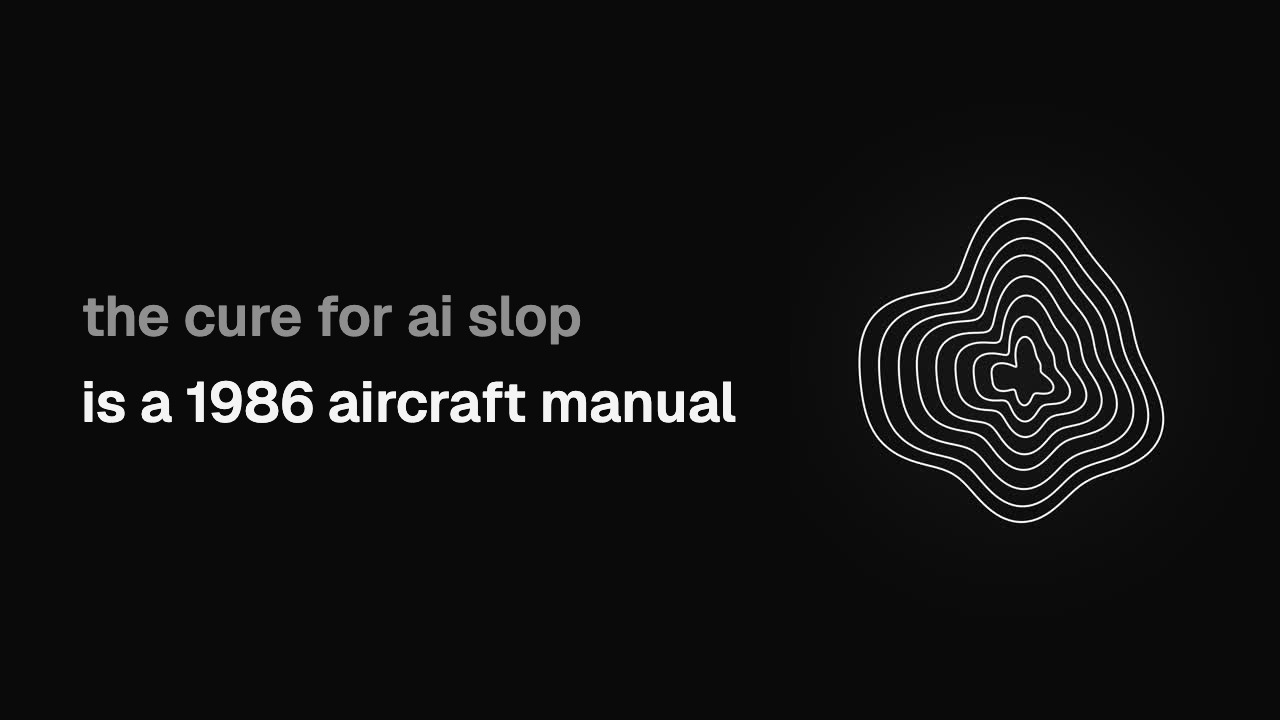
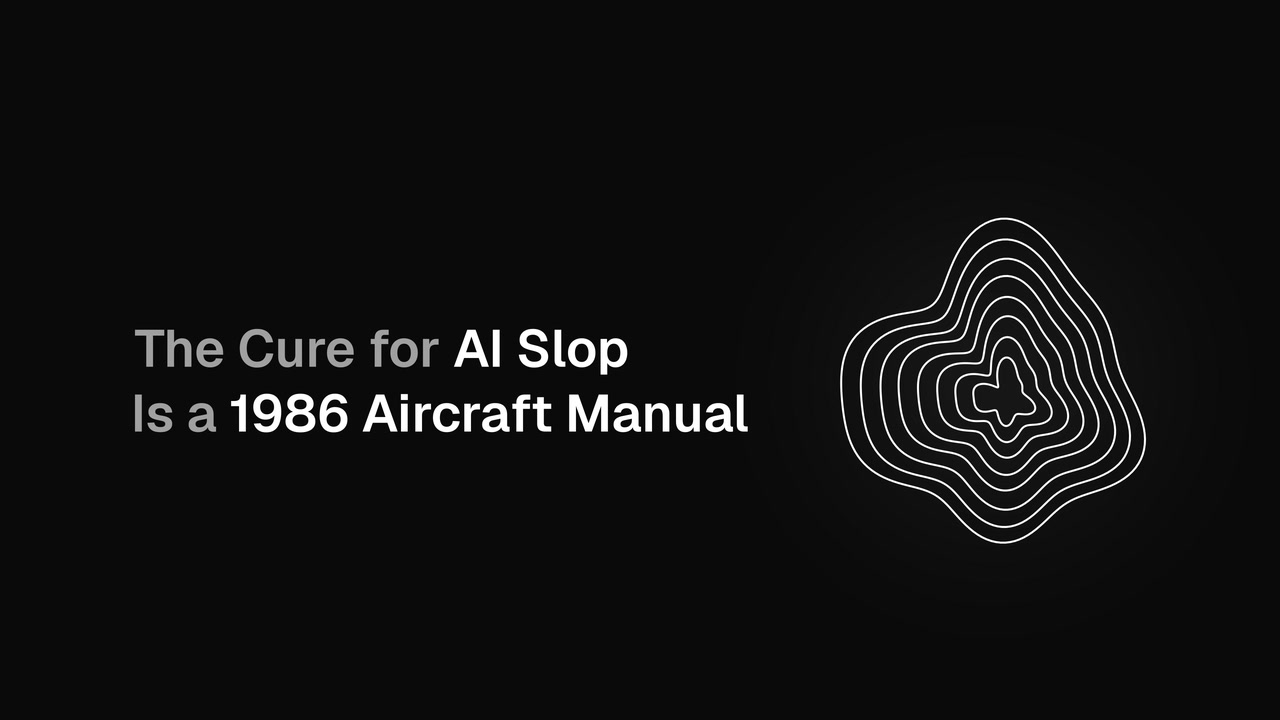
Add the episode "Is closed source dead?"
- Add the episode page with the YouTube video, the chapters and 23 sources.
- Add its thumbnail.
- Use Title Case and equal side margins in the ep01 and ep02 thumbnails.
- Give the newest episode card the same title size and padding as the other cards.

Changed region(s): [[0.0625, 0.3972, 0.5938, 0.6111], [0.6562, 0.275, 0.9062, 0.7639]]

diff --git a/components/ds/episode-card.tsx b/components/ds/episode-card.tsx
@@ -88,16 +88,9 @@ export function EpisodeCard({
 					</span>
 				) : null}
 			</div>
-			<div className={cn("p-5", featured && "p-6")}>
+			<div className="p-5">
 				<NewLabel date={publishedAt} className="mb-2" />
-				<h3
-					className={cn(
-						"font-ui text-[17px] font-medium text-ink",
-						featured && "text-[22px]",
-					)}
-				>
-					{title}
-				</h3>
+				<h3 className="font-ui text-[17px] font-medium text-ink">{title}</h3>
 				{summary && (
 					<p className="mt-2 line-clamp-2 font-ui text-[14px] leading-snug text-ink-mute">
 						{summary}
